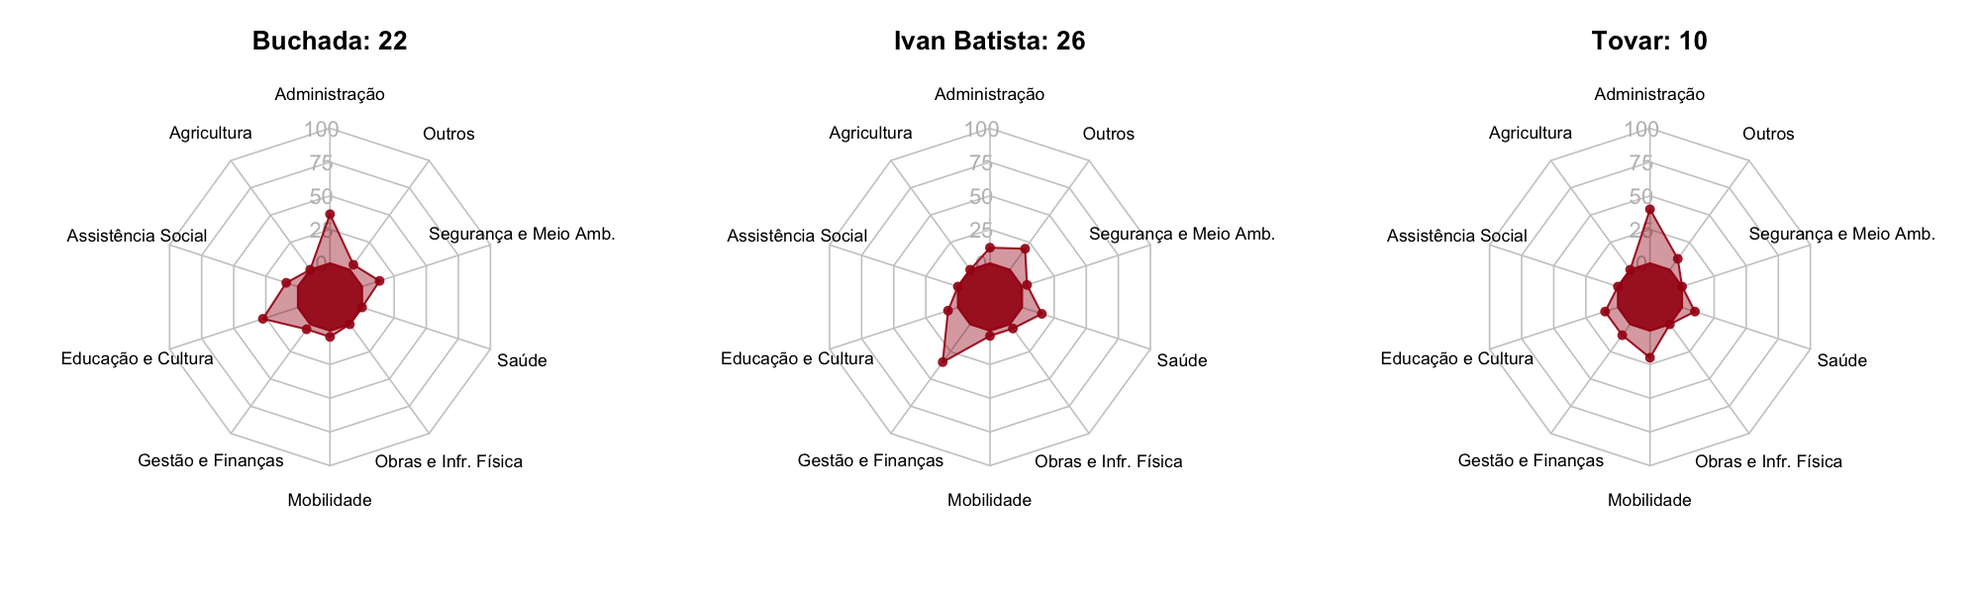
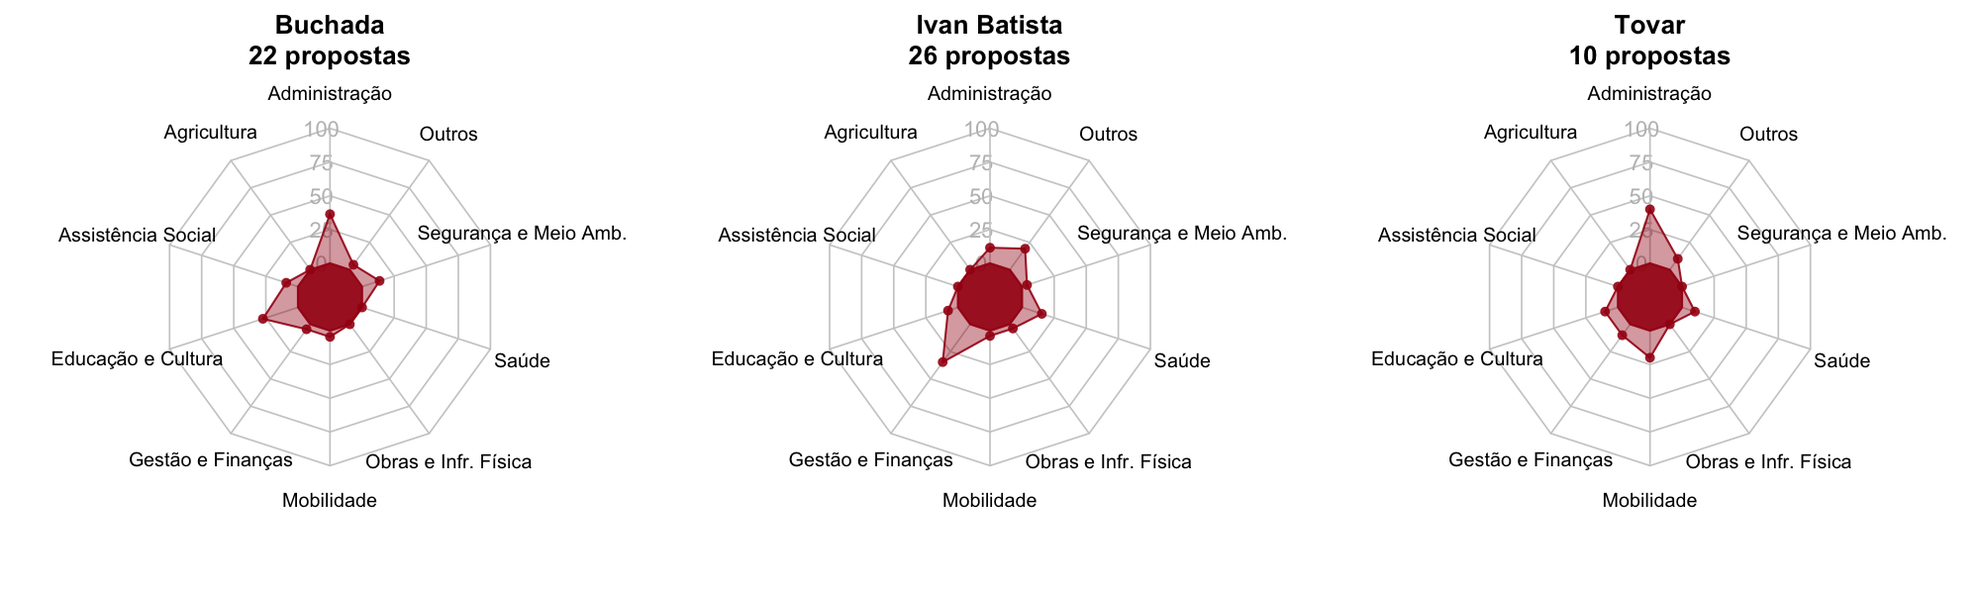
Corrige tamanho de fontes na atividade baixa

diff --git a/_posts/2016-04-13-perfil_de_vereadores.md b/_posts/2016-04-13-perfil_de_vereadores.md
@@ -62,11 +62,11 @@ Miguel da Construção, Pastor Josimar, Rostand Paraíba, e Tia Mila focaram as 
 # Em número de propostas
 Em uma análise complementar, verificamos também quem são os vereadores mais atuantes nas principais áreas de investimento na cidade: **Saúde**, **Segurança e Meio Amb.**, **Educaçào e Cultura** e **Mobilidade**. Abaixo mostramos os rankings dos 3 vereadores que mais tiveram propostas aprovadas em cada uma desses temas:
 
-<div class='row'><div class='col-md-6'><!--html_preserve--><div id="htmlwidget-37e7443abec84c138c59" style="width:500px;height:500px;" class="highchart html-widget"></div>
-<script type="application/json" data-for="htmlwidget-37e7443abec84c138c59">{"x":{"hc_opts":{"title":{"text":"Vereadores com mais propostas em Saúde"},"yAxis":{"title":{"text":"Número de propostas"},"type":"linear"},"credits":{"enabled":false},"exporting":{"enabled":false},"plotOptions":{"series":{"turboThreshold":0,"showInLegend":false,"marker":{"enabled":true}},"treemap":{"layoutAlgorithm":"squarified"},"bubble":{"minSize":5,"maxSize":25},"scatter":{"marker":{"symbol":"circle"}}},"annotationsOptions":{"enabledButtons":false},"tooltip":{"delayForDisplay":10},"series":[{"group":"group","data":[{"Vereador":"Alexandre Do Sindicato","Saúde":14,"tipo":"Saúde","y":14,"name":"Alexandre Do Sindicato"},{"Vereador":"Bruno Cunha Lima","Saúde":11,"tipo":"Saúde","y":11,"name":"Bruno Cunha Lima"},{"Vereador":"Pastor Josimar","Saúde":7,"tipo":"Saúde","y":7,"name":"Pastor Josimar"}],"type":"column"}],"xAxis":{"type":"category","title":{"text":"Vereador"},"categories":null},"colors":["#1b9e77"]},"theme":{"chart":{"backgroundColor":"transparent"}},"conf_opts":{"global":{"Date":null,"VMLRadialGradientURL":"http =//code.highcharts.com/list(version)/gfx/vml-radial-gradient.png","canvasToolsURL":"http =//code.highcharts.com/list(version)/modules/canvas-tools.js","getTimezoneOffset":null,"timezoneOffset":0,"useUTC":true},"lang":{"contextButtonTitle":"Chart context menu","decimalPoint":".","downloadJPEG":"Download JPEG image","downloadPDF":"Download PDF document","downloadPNG":"Download PNG image","downloadSVG":"Download SVG vector image","drillUpText":"Back to {series.name}","invalidDate":null,"loading":"Loading...","months":["January","February","March","April","May","June","July","August","September","October","November","December"],"noData":"No data to display","numericSymbols":["k","M","G","T","P","E"],"printChart":"Print chart","resetZoom":"Reset zoom","resetZoomTitle":"Reset zoom level 1:1","shortMonths":["Jan","Feb","Mar","Apr","May","Jun","Jul","Aug","Sep","Oct","Nov","Dec"],"thousandsSep":" ","weekdays":["Sunday","Monday","Tuesday","Wednesday","Thursday","Friday","Saturday"]}},"type":"chart","fonts":[],"debug":false},"evals":[],"jsHooks":[]}</script><!--/html_preserve--></div><div class='col-md-6'><!--html_preserve--><div id="htmlwidget-eb1bf9cbaf1dec81a433" style="width:500px;height:500px;" class="highchart html-widget"></div>
-<script type="application/json" data-for="htmlwidget-eb1bf9cbaf1dec81a433">{"x":{"hc_opts":{"title":{"text":"Vereadores com mais propostas em Segurança e Meio Amb."},"yAxis":{"title":{"text":"Número de propostas"},"type":"linear"},"credits":{"enabled":false},"exporting":{"enabled":false},"plotOptions":{"series":{"turboThreshold":0,"showInLegend":false,"marker":{"enabled":true}},"treemap":{"layoutAlgorithm":"squarified"},"bubble":{"minSize":5,"maxSize":25},"scatter":{"marker":{"symbol":"circle"}}},"annotationsOptions":{"enabledButtons":false},"tooltip":{"delayForDisplay":10},"series":[{"group":"group","data":[{"Vereador":"Alexandre Do Sindicato","Segurança e Meio Amb.":14,"tipo":"Segurança e Meio Amb.","y":14,"name":"Alexandre Do Sindicato"},{"Vereador":"Bruno Cunha Lima","Segurança e Meio Amb.":9,"tipo":"Segurança e Meio Amb.","y":9,"name":"Bruno Cunha Lima"},{"Vereador":"Dr. Olimpio","Segurança e Meio Amb.":9,"tipo":"Segurança e Meio Amb.","y":9,"name":"Dr. Olimpio"}],"type":"column"}],"xAxis":{"type":"category","title":{"text":"Vereador"},"categories":null},"colors":["#d95f02"]},"theme":{"chart":{"backgroundColor":"transparent"}},"conf_opts":{"global":{"Date":null,"VMLRadialGradientURL":"http =//code.highcharts.com/list(version)/gfx/vml-radial-gradient.png","canvasToolsURL":"http =//code.highcharts.com/list(version)/modules/canvas-tools.js","getTimezoneOffset":null,"timezoneOffset":0,"useUTC":true},"lang":{"contextButtonTitle":"Chart context menu","decimalPoint":".","downloadJPEG":"Download JPEG image","downloadPDF":"Download PDF document","downloadPNG":"Download PNG image","downloadSVG":"Download SVG vector image","drillUpText":"Back to {series.name}","invalidDate":null,"loading":"Loading...","months":["January","February","March","April","May","June","July","August","September","October","November","December"],"noData":"No data to display","numericSymbols":["k","M","G","T","P","E"],"printChart":"Print chart","resetZoom":"Reset zoom","resetZoomTitle":"Reset zoom level 1:1","shortMonths":["Jan","Feb","Mar","Apr","May","Jun","Jul","Aug","Sep","Oct","Nov","Dec"],"thousandsSep":" ","weekdays":["Sunday","Monday","Tuesday","Wednesday","Thursday","Friday","Saturday"]}},"type":"chart","fonts":[],"debug":false},"evals":[],"jsHooks":[]}</script><!--/html_preserve--></div></div><div class='row'><div class='col-md-6'><!--html_preserve--><div id="htmlwidget-ac8293cb09209034e3f6" style="width:500px;height:500px;" class="highchart html-widget"></div>
-<script type="application/json" data-for="htmlwidget-ac8293cb09209034e3f6">{"x":{"hc_opts":{"title":{"text":"Vereadores com mais propostas em Educação e Cultura"},"yAxis":{"title":{"text":"Número de propostas"},"type":"linear"},"credits":{"enabled":false},"exporting":{"enabled":false},"plotOptions":{"series":{"turboThreshold":0,"showInLegend":false,"marker":{"enabled":true}},"treemap":{"layoutAlgorithm":"squarified"},"bubble":{"minSize":5,"maxSize":25},"scatter":{"marker":{"symbol":"circle"}}},"annotationsOptions":{"enabledButtons":false},"tooltip":{"delayForDisplay":10},"series":[{"group":"group","data":[{"Vereador":"Alexandre Do Sindicato","Educação e Cultura":32,"tipo":"Educação e Cultura","y":32,"name":"Alexandre Do Sindicato"},{"Vereador":"Nelson Gomes","Educação e Cultura":18,"tipo":"Educação e Cultura","y":18,"name":"Nelson Gomes"},{"Vereador":"Vaninho Aragao","Educação e Cultura":17,"tipo":"Educação e Cultura","y":17,"name":"Vaninho Aragao"}],"type":"column"}],"xAxis":{"type":"category","title":{"text":"Vereador"},"categories":null},"colors":["#7570b3"]},"theme":{"chart":{"backgroundColor":"transparent"}},"conf_opts":{"global":{"Date":null,"VMLRadialGradientURL":"http =//code.highcharts.com/list(version)/gfx/vml-radial-gradient.png","canvasToolsURL":"http =//code.highcharts.com/list(version)/modules/canvas-tools.js","getTimezoneOffset":null,"timezoneOffset":0,"useUTC":true},"lang":{"contextButtonTitle":"Chart context menu","decimalPoint":".","downloadJPEG":"Download JPEG image","downloadPDF":"Download PDF document","downloadPNG":"Download PNG image","downloadSVG":"Download SVG vector image","drillUpText":"Back to {series.name}","invalidDate":null,"loading":"Loading...","months":["January","February","March","April","May","June","July","August","September","October","November","December"],"noData":"No data to display","numericSymbols":["k","M","G","T","P","E"],"printChart":"Print chart","resetZoom":"Reset zoom","resetZoomTitle":"Reset zoom level 1:1","shortMonths":["Jan","Feb","Mar","Apr","May","Jun","Jul","Aug","Sep","Oct","Nov","Dec"],"thousandsSep":" ","weekdays":["Sunday","Monday","Tuesday","Wednesday","Thursday","Friday","Saturday"]}},"type":"chart","fonts":[],"debug":false},"evals":[],"jsHooks":[]}</script><!--/html_preserve--></div><div class='col-md-6'><!--html_preserve--><div id="htmlwidget-ed51636f14e2f514d020" style="width:500px;height:500px;" class="highchart html-widget"></div>
-<script type="application/json" data-for="htmlwidget-ed51636f14e2f514d020">{"x":{"hc_opts":{"title":{"text":"Vereadores com mais propostas em Mobilidade"},"yAxis":{"title":{"text":"Número de propostas"},"type":"linear"},"credits":{"enabled":false},"exporting":{"enabled":false},"plotOptions":{"series":{"turboThreshold":0,"showInLegend":false,"marker":{"enabled":true}},"treemap":{"layoutAlgorithm":"squarified"},"bubble":{"minSize":5,"maxSize":25},"scatter":{"marker":{"symbol":"circle"}}},"annotationsOptions":{"enabledButtons":false},"tooltip":{"delayForDisplay":10},"series":[{"group":"group","data":[{"Vereador":"Bruno Cunha Lima","Mobilidade":11,"tipo":"Mobilidade","y":11,"name":"Bruno Cunha Lima"},{"Vereador":"Alexandre Do Sindicato","Mobilidade":7,"tipo":"Mobilidade","y":7,"name":"Alexandre Do Sindicato"},{"Vereador":"Napoleão Maracajá","Mobilidade":7,"tipo":"Mobilidade","y":7,"name":"Napoleão Maracajá"}],"type":"column"}],"xAxis":{"type":"category","title":{"text":"Vereador"},"categories":null},"colors":["#e7298a"]},"theme":{"chart":{"backgroundColor":"transparent"}},"conf_opts":{"global":{"Date":null,"VMLRadialGradientURL":"http =//code.highcharts.com/list(version)/gfx/vml-radial-gradient.png","canvasToolsURL":"http =//code.highcharts.com/list(version)/modules/canvas-tools.js","getTimezoneOffset":null,"timezoneOffset":0,"useUTC":true},"lang":{"contextButtonTitle":"Chart context menu","decimalPoint":".","downloadJPEG":"Download JPEG image","downloadPDF":"Download PDF document","downloadPNG":"Download PNG image","downloadSVG":"Download SVG vector image","drillUpText":"Back to {series.name}","invalidDate":null,"loading":"Loading...","months":["January","February","March","April","May","June","July","August","September","October","November","December"],"noData":"No data to display","numericSymbols":["k","M","G","T","P","E"],"printChart":"Print chart","resetZoom":"Reset zoom","resetZoomTitle":"Reset zoom level 1:1","shortMonths":["Jan","Feb","Mar","Apr","May","Jun","Jul","Aug","Sep","Oct","Nov","Dec"],"thousandsSep":" ","weekdays":["Sunday","Monday","Tuesday","Wednesday","Thursday","Friday","Saturday"]}},"type":"chart","fonts":[],"debug":false},"evals":[],"jsHooks":[]}</script><!--/html_preserve--></div></div>
+<div class='row'><div class='col-md-6'><!--html_preserve--><div id="htmlwidget-537fdafad5304f12444c" style="width:500px;height:500px;" class="highchart html-widget"></div>
+<script type="application/json" data-for="htmlwidget-537fdafad5304f12444c">{"x":{"hc_opts":{"title":{"text":"Vereadores com mais propostas em Saúde"},"yAxis":{"title":{"text":"Número de propostas"},"type":"linear"},"credits":{"enabled":false},"exporting":{"enabled":false},"plotOptions":{"series":{"turboThreshold":0,"showInLegend":false,"marker":{"enabled":true}},"treemap":{"layoutAlgorithm":"squarified"},"bubble":{"minSize":5,"maxSize":25},"scatter":{"marker":{"symbol":"circle"}}},"annotationsOptions":{"enabledButtons":false},"tooltip":{"delayForDisplay":10},"series":[{"group":"group","data":[{"Vereador":"Alexandre Do Sindicato","Saúde":14,"tipo":"Saúde","y":14,"name":"Alexandre Do Sindicato"},{"Vereador":"Bruno Cunha Lima","Saúde":11,"tipo":"Saúde","y":11,"name":"Bruno Cunha Lima"},{"Vereador":"Pastor Josimar","Saúde":7,"tipo":"Saúde","y":7,"name":"Pastor Josimar"}],"type":"column"}],"xAxis":{"type":"category","title":{"text":"Vereador"},"categories":null},"colors":["#1b9e77"]},"theme":{"chart":{"backgroundColor":"transparent"}},"conf_opts":{"global":{"Date":null,"VMLRadialGradientURL":"http =//code.highcharts.com/list(version)/gfx/vml-radial-gradient.png","canvasToolsURL":"http =//code.highcharts.com/list(version)/modules/canvas-tools.js","getTimezoneOffset":null,"timezoneOffset":0,"useUTC":true},"lang":{"contextButtonTitle":"Chart context menu","decimalPoint":".","downloadJPEG":"Download JPEG image","downloadPDF":"Download PDF document","downloadPNG":"Download PNG image","downloadSVG":"Download SVG vector image","drillUpText":"Back to {series.name}","invalidDate":null,"loading":"Loading...","months":["January","February","March","April","May","June","July","August","September","October","November","December"],"noData":"No data to display","numericSymbols":["k","M","G","T","P","E"],"printChart":"Print chart","resetZoom":"Reset zoom","resetZoomTitle":"Reset zoom level 1:1","shortMonths":["Jan","Feb","Mar","Apr","May","Jun","Jul","Aug","Sep","Oct","Nov","Dec"],"thousandsSep":" ","weekdays":["Sunday","Monday","Tuesday","Wednesday","Thursday","Friday","Saturday"]}},"type":"chart","fonts":[],"debug":false},"evals":[],"jsHooks":[]}</script><!--/html_preserve--></div><div class='col-md-6'><!--html_preserve--><div id="htmlwidget-2b07d15907620992f3a1" style="width:500px;height:500px;" class="highchart html-widget"></div>
+<script type="application/json" data-for="htmlwidget-2b07d15907620992f3a1">{"x":{"hc_opts":{"title":{"text":"Vereadores com mais propostas em Segurança e Meio Amb."},"yAxis":{"title":{"text":"Número de propostas"},"type":"linear"},"credits":{"enabled":false},"exporting":{"enabled":false},"plotOptions":{"series":{"turboThreshold":0,"showInLegend":false,"marker":{"enabled":true}},"treemap":{"layoutAlgorithm":"squarified"},"bubble":{"minSize":5,"maxSize":25},"scatter":{"marker":{"symbol":"circle"}}},"annotationsOptions":{"enabledButtons":false},"tooltip":{"delayForDisplay":10},"series":[{"group":"group","data":[{"Vereador":"Alexandre Do Sindicato","Segurança e Meio Amb.":14,"tipo":"Segurança e Meio Amb.","y":14,"name":"Alexandre Do Sindicato"},{"Vereador":"Bruno Cunha Lima","Segurança e Meio Amb.":9,"tipo":"Segurança e Meio Amb.","y":9,"name":"Bruno Cunha Lima"},{"Vereador":"Dr. Olimpio","Segurança e Meio Amb.":9,"tipo":"Segurança e Meio Amb.","y":9,"name":"Dr. Olimpio"}],"type":"column"}],"xAxis":{"type":"category","title":{"text":"Vereador"},"categories":null},"colors":["#d95f02"]},"theme":{"chart":{"backgroundColor":"transparent"}},"conf_opts":{"global":{"Date":null,"VMLRadialGradientURL":"http =//code.highcharts.com/list(version)/gfx/vml-radial-gradient.png","canvasToolsURL":"http =//code.highcharts.com/list(version)/modules/canvas-tools.js","getTimezoneOffset":null,"timezoneOffset":0,"useUTC":true},"lang":{"contextButtonTitle":"Chart context menu","decimalPoint":".","downloadJPEG":"Download JPEG image","downloadPDF":"Download PDF document","downloadPNG":"Download PNG image","downloadSVG":"Download SVG vector image","drillUpText":"Back to {series.name}","invalidDate":null,"loading":"Loading...","months":["January","February","March","April","May","June","July","August","September","October","November","December"],"noData":"No data to display","numericSymbols":["k","M","G","T","P","E"],"printChart":"Print chart","resetZoom":"Reset zoom","resetZoomTitle":"Reset zoom level 1:1","shortMonths":["Jan","Feb","Mar","Apr","May","Jun","Jul","Aug","Sep","Oct","Nov","Dec"],"thousandsSep":" ","weekdays":["Sunday","Monday","Tuesday","Wednesday","Thursday","Friday","Saturday"]}},"type":"chart","fonts":[],"debug":false},"evals":[],"jsHooks":[]}</script><!--/html_preserve--></div></div><div class='row'><div class='col-md-6'><!--html_preserve--><div id="htmlwidget-6f1156ce753c43364613" style="width:500px;height:500px;" class="highchart html-widget"></div>
+<script type="application/json" data-for="htmlwidget-6f1156ce753c43364613">{"x":{"hc_opts":{"title":{"text":"Vereadores com mais propostas em Educação e Cultura"},"yAxis":{"title":{"text":"Número de propostas"},"type":"linear"},"credits":{"enabled":false},"exporting":{"enabled":false},"plotOptions":{"series":{"turboThreshold":0,"showInLegend":false,"marker":{"enabled":true}},"treemap":{"layoutAlgorithm":"squarified"},"bubble":{"minSize":5,"maxSize":25},"scatter":{"marker":{"symbol":"circle"}}},"annotationsOptions":{"enabledButtons":false},"tooltip":{"delayForDisplay":10},"series":[{"group":"group","data":[{"Vereador":"Alexandre Do Sindicato","Educação e Cultura":32,"tipo":"Educação e Cultura","y":32,"name":"Alexandre Do Sindicato"},{"Vereador":"Nelson Gomes","Educação e Cultura":18,"tipo":"Educação e Cultura","y":18,"name":"Nelson Gomes"},{"Vereador":"Vaninho Aragao","Educação e Cultura":17,"tipo":"Educação e Cultura","y":17,"name":"Vaninho Aragao"}],"type":"column"}],"xAxis":{"type":"category","title":{"text":"Vereador"},"categories":null},"colors":["#7570b3"]},"theme":{"chart":{"backgroundColor":"transparent"}},"conf_opts":{"global":{"Date":null,"VMLRadialGradientURL":"http =//code.highcharts.com/list(version)/gfx/vml-radial-gradient.png","canvasToolsURL":"http =//code.highcharts.com/list(version)/modules/canvas-tools.js","getTimezoneOffset":null,"timezoneOffset":0,"useUTC":true},"lang":{"contextButtonTitle":"Chart context menu","decimalPoint":".","downloadJPEG":"Download JPEG image","downloadPDF":"Download PDF document","downloadPNG":"Download PNG image","downloadSVG":"Download SVG vector image","drillUpText":"Back to {series.name}","invalidDate":null,"loading":"Loading...","months":["January","February","March","April","May","June","July","August","September","October","November","December"],"noData":"No data to display","numericSymbols":["k","M","G","T","P","E"],"printChart":"Print chart","resetZoom":"Reset zoom","resetZoomTitle":"Reset zoom level 1:1","shortMonths":["Jan","Feb","Mar","Apr","May","Jun","Jul","Aug","Sep","Oct","Nov","Dec"],"thousandsSep":" ","weekdays":["Sunday","Monday","Tuesday","Wednesday","Thursday","Friday","Saturday"]}},"type":"chart","fonts":[],"debug":false},"evals":[],"jsHooks":[]}</script><!--/html_preserve--></div><div class='col-md-6'><!--html_preserve--><div id="htmlwidget-759466b166b16067e9c6" style="width:500px;height:500px;" class="highchart html-widget"></div>
+<script type="application/json" data-for="htmlwidget-759466b166b16067e9c6">{"x":{"hc_opts":{"title":{"text":"Vereadores com mais propostas em Mobilidade"},"yAxis":{"title":{"text":"Número de propostas"},"type":"linear"},"credits":{"enabled":false},"exporting":{"enabled":false},"plotOptions":{"series":{"turboThreshold":0,"showInLegend":false,"marker":{"enabled":true}},"treemap":{"layoutAlgorithm":"squarified"},"bubble":{"minSize":5,"maxSize":25},"scatter":{"marker":{"symbol":"circle"}}},"annotationsOptions":{"enabledButtons":false},"tooltip":{"delayForDisplay":10},"series":[{"group":"group","data":[{"Vereador":"Bruno Cunha Lima","Mobilidade":11,"tipo":"Mobilidade","y":11,"name":"Bruno Cunha Lima"},{"Vereador":"Alexandre Do Sindicato","Mobilidade":7,"tipo":"Mobilidade","y":7,"name":"Alexandre Do Sindicato"},{"Vereador":"Napoleão Maracajá","Mobilidade":7,"tipo":"Mobilidade","y":7,"name":"Napoleão Maracajá"}],"type":"column"}],"xAxis":{"type":"category","title":{"text":"Vereador"},"categories":null},"colors":["#e7298a"]},"theme":{"chart":{"backgroundColor":"transparent"}},"conf_opts":{"global":{"Date":null,"VMLRadialGradientURL":"http =//code.highcharts.com/list(version)/gfx/vml-radial-gradient.png","canvasToolsURL":"http =//code.highcharts.com/list(version)/modules/canvas-tools.js","getTimezoneOffset":null,"timezoneOffset":0,"useUTC":true},"lang":{"contextButtonTitle":"Chart context menu","decimalPoint":".","downloadJPEG":"Download JPEG image","downloadPDF":"Download PDF document","downloadPNG":"Download PNG image","downloadSVG":"Download SVG vector image","drillUpText":"Back to {series.name}","invalidDate":null,"loading":"Loading...","months":["January","February","March","April","May","June","July","August","September","October","November","December"],"noData":"No data to display","numericSymbols":["k","M","G","T","P","E"],"printChart":"Print chart","resetZoom":"Reset zoom","resetZoomTitle":"Reset zoom level 1:1","shortMonths":["Jan","Feb","Mar","Apr","May","Jun","Jul","Aug","Sep","Oct","Nov","Dec"],"thousandsSep":" ","weekdays":["Sunday","Monday","Tuesday","Wednesday","Thursday","Friday","Saturday"]}},"type":"chart","fonts":[],"debug":false},"evals":[],"jsHooks":[]}</script><!--/html_preserve--></div></div>
 
 O vereador **Alexandre do Sindicato** está presente entre os três primeiros colocados nas quatro categorias, e ficou em primeiro lugar em três delas. O vereador **Bruno Cunha Lima** também ganha destaque por estar presente entre os três primeiros em três das quatro categorias. Todos os outros vereadores presentes entre os três primeiros de cada categoria só aparecem em uma delas e nenhum deles ocupa o primeiro lugar.
 
@@ -75,7 +75,7 @@ Além de selecionar vereadores que mais tiveram propostas aprovadas em categoria
 
 Interessante que temos vereadores de alta, média e baixa atividade entre os primeiros colocados nessas categorias. Além disso, o vereador que mais se destaca é **Pimentel Filho**. Ele está em primeiro lugar em todas as categorias "menos importantes", chegando a ter 96 propostas aprovadas apenas de nomeação de ruas. **Napoleão Maracajá** também aparece em dois dos gráficos.
 
-<div class='row'><div class='col-md-4'><!--html_preserve--><div id="htmlwidget-db0648dc6cccdda95263" style="width:300px;height:500px;" class="highchart html-widget"></div>
-<script type="application/json" data-for="htmlwidget-db0648dc6cccdda95263">{"x":{"hc_opts":{"title":{"text":"Vereadores com mais propostas em Denomina de nomes"},"yAxis":{"title":{"text":"Número de propostas"},"type":"linear"},"credits":{"enabled":false},"exporting":{"enabled":false},"plotOptions":{"series":{"turboThreshold":0,"showInLegend":false,"marker":{"enabled":true}},"treemap":{"layoutAlgorithm":"squarified"},"bubble":{"minSize":5,"maxSize":25},"scatter":{"marker":{"symbol":"circle"}}},"annotationsOptions":{"enabledButtons":false},"tooltip":{"delayForDisplay":10},"series":[{"group":"group","data":[{"Vereador":"Pimentel Filho","Denomina":96,"tipo":"Denomina","y":96,"name":"Pimentel Filho"},{"Vereador":"Prof. Miguel Rodrigues","Denomina":61,"tipo":"Denomina","y":61,"name":"Prof. Miguel Rodrigues"},{"Vereador":"Napoleão Maracajá","Denomina":39,"tipo":"Denomina","y":39,"name":"Napoleão Maracajá"}],"type":"column"}],"xAxis":{"type":"category","title":{"text":"Vereador"},"categories":null},"colors":["#7fc97f"]},"theme":{"chart":{"backgroundColor":"transparent"}},"conf_opts":{"global":{"Date":null,"VMLRadialGradientURL":"http =//code.highcharts.com/list(version)/gfx/vml-radial-gradient.png","canvasToolsURL":"http =//code.highcharts.com/list(version)/modules/canvas-tools.js","getTimezoneOffset":null,"timezoneOffset":0,"useUTC":true},"lang":{"contextButtonTitle":"Chart context menu","decimalPoint":".","downloadJPEG":"Download JPEG image","downloadPDF":"Download PDF document","downloadPNG":"Download PNG image","downloadSVG":"Download SVG vector image","drillUpText":"Back to {series.name}","invalidDate":null,"loading":"Loading...","months":["January","February","March","April","May","June","July","August","September","October","November","December"],"noData":"No data to display","numericSymbols":["k","M","G","T","P","E"],"printChart":"Print chart","resetZoom":"Reset zoom","resetZoomTitle":"Reset zoom level 1:1","shortMonths":["Jan","Feb","Mar","Apr","May","Jun","Jul","Aug","Sep","Oct","Nov","Dec"],"thousandsSep":" ","weekdays":["Sunday","Monday","Tuesday","Wednesday","Thursday","Friday","Saturday"]}},"type":"chart","fonts":[],"debug":false},"evals":[],"jsHooks":[]}</script><!--/html_preserve--></div><div class='col-md-4'><!--html_preserve--><div id="htmlwidget-4eae5adeb33bc157fb1d" style="width:300px;height:500px;" class="highchart html-widget"></div>
-<script type="application/json" data-for="htmlwidget-4eae5adeb33bc157fb1d">{"x":{"hc_opts":{"title":{"text":"Vereadores com mais propostas em Concessão de medalhas"},"yAxis":{"title":{"text":"Número de propostas"},"type":"linear"},"credits":{"enabled":false},"exporting":{"enabled":false},"plotOptions":{"series":{"turboThreshold":0,"showInLegend":false,"marker":{"enabled":true}},"treemap":{"layoutAlgorithm":"squarified"},"bubble":{"minSize":5,"maxSize":25},"scatter":{"marker":{"symbol":"circle"}}},"annotationsOptions":{"enabledButtons":false},"tooltip":{"delayForDisplay":10},"series":[{"group":"group","data":[{"Vereador":"Pimentel Filho","Concede":18,"tipo":"Concede","y":18,"name":"Pimentel Filho"},{"Vereador":"Napoleão Maracajá","Concede":12,"tipo":"Concede","y":12,"name":"Napoleão Maracajá"},{"Vereador":"Alexandre Do Sindicato","Concede":9,"tipo":"Concede","y":9,"name":"Alexandre Do Sindicato"}],"type":"column"}],"xAxis":{"type":"category","title":{"text":"Vereador"},"categories":null},"colors":["#beaed4"]},"theme":{"chart":{"backgroundColor":"transparent"}},"conf_opts":{"global":{"Date":null,"VMLRadialGradientURL":"http =//code.highcharts.com/list(version)/gfx/vml-radial-gradient.png","canvasToolsURL":"http =//code.highcharts.com/list(version)/modules/canvas-tools.js","getTimezoneOffset":null,"timezoneOffset":0,"useUTC":true},"lang":{"contextButtonTitle":"Chart context menu","decimalPoint":".","downloadJPEG":"Download JPEG image","downloadPDF":"Download PDF document","downloadPNG":"Download PNG image","downloadSVG":"Download SVG vector image","drillUpText":"Back to {series.name}","invalidDate":null,"loading":"Loading...","months":["January","February","March","April","May","June","July","August","September","October","November","December"],"noData":"No data to display","numericSymbols":["k","M","G","T","P","E"],"printChart":"Print chart","resetZoom":"Reset zoom","resetZoomTitle":"Reset zoom level 1:1","shortMonths":["Jan","Feb","Mar","Apr","May","Jun","Jul","Aug","Sep","Oct","Nov","Dec"],"thousandsSep":" ","weekdays":["Sunday","Monday","Tuesday","Wednesday","Thursday","Friday","Saturday"]}},"type":"chart","fonts":[],"debug":false},"evals":[],"jsHooks":[]}</script><!--/html_preserve--></div><div class='col-md-4'><!--html_preserve--><div id="htmlwidget-392701fdd36eb718b0f4" style="width:300px;height:500px;" class="highchart html-widget"></div>
-<script type="application/json" data-for="htmlwidget-392701fdd36eb718b0f4">{"x":{"hc_opts":{"title":{"text":"Vereadores com mais propostas em Concessão de títulos"},"yAxis":{"title":{"text":"Número de propostas"},"type":"linear"},"credits":{"enabled":false},"exporting":{"enabled":false},"plotOptions":{"series":{"turboThreshold":0,"showInLegend":false,"marker":{"enabled":true}},"treemap":{"layoutAlgorithm":"squarified"},"bubble":{"minSize":5,"maxSize":25},"scatter":{"marker":{"symbol":"circle"}}},"annotationsOptions":{"enabledButtons":false},"tooltip":{"delayForDisplay":10},"series":[{"group":"group","data":[{"Vereador":"Pimentel Filho","Titulo":15,"tipo":"Titulo","y":15,"name":"Pimentel Filho"},{"Vereador":"Marinaldo Cardoso","Titulo":12,"tipo":"Titulo","y":12,"name":"Marinaldo Cardoso"},{"Vereador":"Joao Dantas","Titulo":11,"tipo":"Titulo","y":11,"name":"Joao Dantas"}],"type":"column"}],"xAxis":{"type":"category","title":{"text":"Vereador"},"categories":null},"colors":["#ffff99"]},"theme":{"chart":{"backgroundColor":"transparent"}},"conf_opts":{"global":{"Date":null,"VMLRadialGradientURL":"http =//code.highcharts.com/list(version)/gfx/vml-radial-gradient.png","canvasToolsURL":"http =//code.highcharts.com/list(version)/modules/canvas-tools.js","getTimezoneOffset":null,"timezoneOffset":0,"useUTC":true},"lang":{"contextButtonTitle":"Chart context menu","decimalPoint":".","downloadJPEG":"Download JPEG image","downloadPDF":"Download PDF document","downloadPNG":"Download PNG image","downloadSVG":"Download SVG vector image","drillUpText":"Back to {series.name}","invalidDate":null,"loading":"Loading...","months":["January","February","March","April","May","June","July","August","September","October","November","December"],"noData":"No data to display","numericSymbols":["k","M","G","T","P","E"],"printChart":"Print chart","resetZoom":"Reset zoom","resetZoomTitle":"Reset zoom level 1:1","shortMonths":["Jan","Feb","Mar","Apr","May","Jun","Jul","Aug","Sep","Oct","Nov","Dec"],"thousandsSep":" ","weekdays":["Sunday","Monday","Tuesday","Wednesday","Thursday","Friday","Saturday"]}},"type":"chart","fonts":[],"debug":false},"evals":[],"jsHooks":[]}</script><!--/html_preserve--></div></div>
+<div class='row'><div class='col-md-4'><!--html_preserve--><div id="htmlwidget-6481f2497a237646d874" style="width:300px;height:500px;" class="highchart html-widget"></div>
+<script type="application/json" data-for="htmlwidget-6481f2497a237646d874">{"x":{"hc_opts":{"title":{"text":"Vereadores com mais propostas em Denomina de nomes"},"yAxis":{"title":{"text":"Número de propostas"},"type":"linear"},"credits":{"enabled":false},"exporting":{"enabled":false},"plotOptions":{"series":{"turboThreshold":0,"showInLegend":false,"marker":{"enabled":true}},"treemap":{"layoutAlgorithm":"squarified"},"bubble":{"minSize":5,"maxSize":25},"scatter":{"marker":{"symbol":"circle"}}},"annotationsOptions":{"enabledButtons":false},"tooltip":{"delayForDisplay":10},"series":[{"group":"group","data":[{"Vereador":"Pimentel Filho","Denomina":96,"tipo":"Denomina","y":96,"name":"Pimentel Filho"},{"Vereador":"Prof. Miguel Rodrigues","Denomina":61,"tipo":"Denomina","y":61,"name":"Prof. Miguel Rodrigues"},{"Vereador":"Napoleão Maracajá","Denomina":39,"tipo":"Denomina","y":39,"name":"Napoleão Maracajá"}],"type":"column"}],"xAxis":{"type":"category","title":{"text":"Vereador"},"categories":null},"colors":["#7fc97f"]},"theme":{"chart":{"backgroundColor":"transparent"}},"conf_opts":{"global":{"Date":null,"VMLRadialGradientURL":"http =//code.highcharts.com/list(version)/gfx/vml-radial-gradient.png","canvasToolsURL":"http =//code.highcharts.com/list(version)/modules/canvas-tools.js","getTimezoneOffset":null,"timezoneOffset":0,"useUTC":true},"lang":{"contextButtonTitle":"Chart context menu","decimalPoint":".","downloadJPEG":"Download JPEG image","downloadPDF":"Download PDF document","downloadPNG":"Download PNG image","downloadSVG":"Download SVG vector image","drillUpText":"Back to {series.name}","invalidDate":null,"loading":"Loading...","months":["January","February","March","April","May","June","July","August","September","October","November","December"],"noData":"No data to display","numericSymbols":["k","M","G","T","P","E"],"printChart":"Print chart","resetZoom":"Reset zoom","resetZoomTitle":"Reset zoom level 1:1","shortMonths":["Jan","Feb","Mar","Apr","May","Jun","Jul","Aug","Sep","Oct","Nov","Dec"],"thousandsSep":" ","weekdays":["Sunday","Monday","Tuesday","Wednesday","Thursday","Friday","Saturday"]}},"type":"chart","fonts":[],"debug":false},"evals":[],"jsHooks":[]}</script><!--/html_preserve--></div><div class='col-md-4'><!--html_preserve--><div id="htmlwidget-9502998e433c632f01a3" style="width:300px;height:500px;" class="highchart html-widget"></div>
+<script type="application/json" data-for="htmlwidget-9502998e433c632f01a3">{"x":{"hc_opts":{"title":{"text":"Vereadores com mais propostas em Concessão de medalhas"},"yAxis":{"title":{"text":"Número de propostas"},"type":"linear"},"credits":{"enabled":false},"exporting":{"enabled":false},"plotOptions":{"series":{"turboThreshold":0,"showInLegend":false,"marker":{"enabled":true}},"treemap":{"layoutAlgorithm":"squarified"},"bubble":{"minSize":5,"maxSize":25},"scatter":{"marker":{"symbol":"circle"}}},"annotationsOptions":{"enabledButtons":false},"tooltip":{"delayForDisplay":10},"series":[{"group":"group","data":[{"Vereador":"Pimentel Filho","Concede":18,"tipo":"Concede","y":18,"name":"Pimentel Filho"},{"Vereador":"Napoleão Maracajá","Concede":12,"tipo":"Concede","y":12,"name":"Napoleão Maracajá"},{"Vereador":"Alexandre Do Sindicato","Concede":9,"tipo":"Concede","y":9,"name":"Alexandre Do Sindicato"}],"type":"column"}],"xAxis":{"type":"category","title":{"text":"Vereador"},"categories":null},"colors":["#beaed4"]},"theme":{"chart":{"backgroundColor":"transparent"}},"conf_opts":{"global":{"Date":null,"VMLRadialGradientURL":"http =//code.highcharts.com/list(version)/gfx/vml-radial-gradient.png","canvasToolsURL":"http =//code.highcharts.com/list(version)/modules/canvas-tools.js","getTimezoneOffset":null,"timezoneOffset":0,"useUTC":true},"lang":{"contextButtonTitle":"Chart context menu","decimalPoint":".","downloadJPEG":"Download JPEG image","downloadPDF":"Download PDF document","downloadPNG":"Download PNG image","downloadSVG":"Download SVG vector image","drillUpText":"Back to {series.name}","invalidDate":null,"loading":"Loading...","months":["January","February","March","April","May","June","July","August","September","October","November","December"],"noData":"No data to display","numericSymbols":["k","M","G","T","P","E"],"printChart":"Print chart","resetZoom":"Reset zoom","resetZoomTitle":"Reset zoom level 1:1","shortMonths":["Jan","Feb","Mar","Apr","May","Jun","Jul","Aug","Sep","Oct","Nov","Dec"],"thousandsSep":" ","weekdays":["Sunday","Monday","Tuesday","Wednesday","Thursday","Friday","Saturday"]}},"type":"chart","fonts":[],"debug":false},"evals":[],"jsHooks":[]}</script><!--/html_preserve--></div><div class='col-md-4'><!--html_preserve--><div id="htmlwidget-3ce3700f5e212dc74e37" style="width:300px;height:500px;" class="highchart html-widget"></div>
+<script type="application/json" data-for="htmlwidget-3ce3700f5e212dc74e37">{"x":{"hc_opts":{"title":{"text":"Vereadores com mais propostas em Concessão de títulos"},"yAxis":{"title":{"text":"Número de propostas"},"type":"linear"},"credits":{"enabled":false},"exporting":{"enabled":false},"plotOptions":{"series":{"turboThreshold":0,"showInLegend":false,"marker":{"enabled":true}},"treemap":{"layoutAlgorithm":"squarified"},"bubble":{"minSize":5,"maxSize":25},"scatter":{"marker":{"symbol":"circle"}}},"annotationsOptions":{"enabledButtons":false},"tooltip":{"delayForDisplay":10},"series":[{"group":"group","data":[{"Vereador":"Pimentel Filho","Titulo":15,"tipo":"Titulo","y":15,"name":"Pimentel Filho"},{"Vereador":"Marinaldo Cardoso","Titulo":12,"tipo":"Titulo","y":12,"name":"Marinaldo Cardoso"},{"Vereador":"Joao Dantas","Titulo":11,"tipo":"Titulo","y":11,"name":"Joao Dantas"}],"type":"column"}],"xAxis":{"type":"category","title":{"text":"Vereador"},"categories":null},"colors":["#ffff99"]},"theme":{"chart":{"backgroundColor":"transparent"}},"conf_opts":{"global":{"Date":null,"VMLRadialGradientURL":"http =//code.highcharts.com/list(version)/gfx/vml-radial-gradient.png","canvasToolsURL":"http =//code.highcharts.com/list(version)/modules/canvas-tools.js","getTimezoneOffset":null,"timezoneOffset":0,"useUTC":true},"lang":{"contextButtonTitle":"Chart context menu","decimalPoint":".","downloadJPEG":"Download JPEG image","downloadPDF":"Download PDF document","downloadPNG":"Download PNG image","downloadSVG":"Download SVG vector image","drillUpText":"Back to {series.name}","invalidDate":null,"loading":"Loading...","months":["January","February","March","April","May","June","July","August","September","October","November","December"],"noData":"No data to display","numericSymbols":["k","M","G","T","P","E"],"printChart":"Print chart","resetZoom":"Reset zoom","resetZoomTitle":"Reset zoom level 1:1","shortMonths":["Jan","Feb","Mar","Apr","May","Jun","Jul","Aug","Sep","Oct","Nov","Dec"],"thousandsSep":" ","weekdays":["Sunday","Monday","Tuesday","Wednesday","Thursday","Friday","Saturday"]}},"type":"chart","fonts":[],"debug":false},"evals":[],"jsHooks":[]}</script><!--/html_preserve--></div></div>
